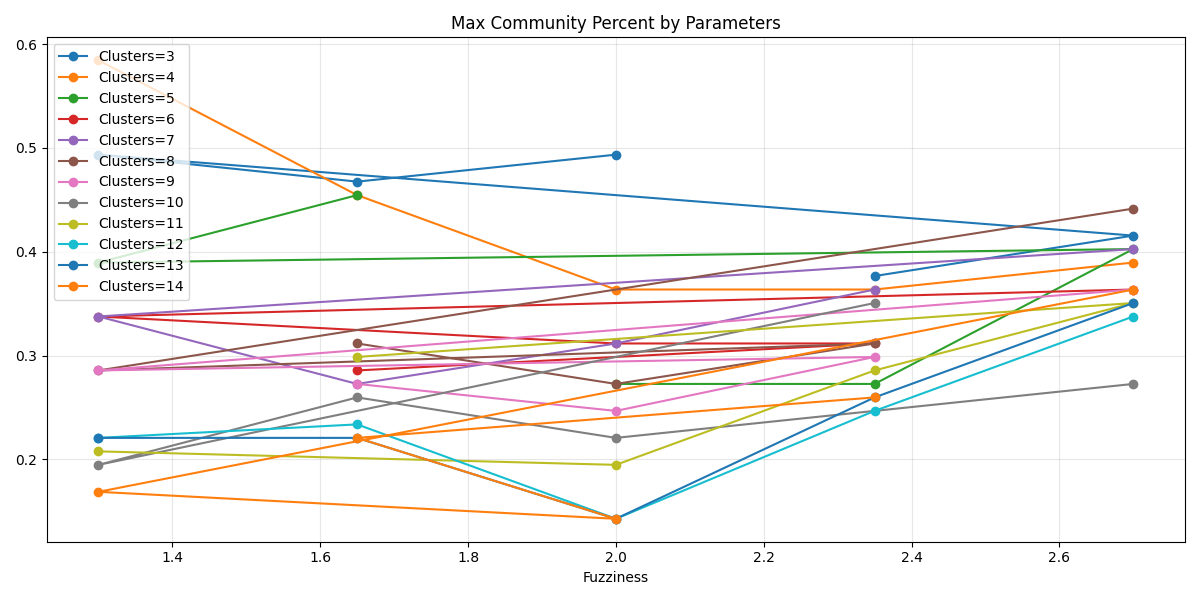
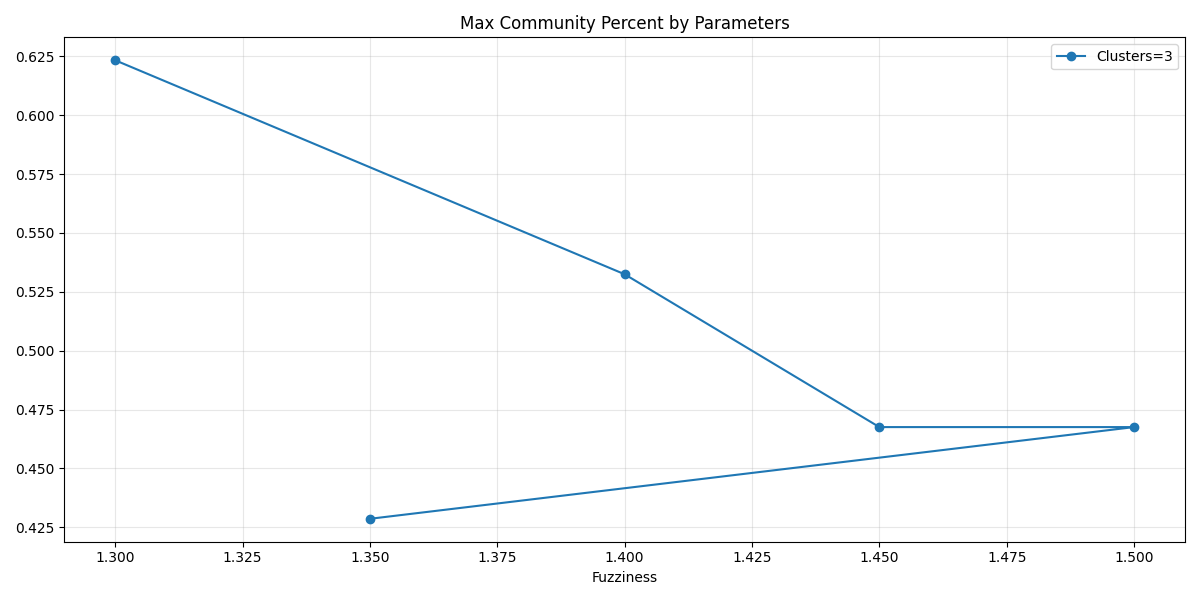
cleand up before push

diff --git a/fuzzy_check.py b/fuzzy_check.py
@@ -576,8 +576,8 @@ def main():
     analyzer = ParameterSweepAnalysis()
     
     # Define parameter grid
-    cluster_range = range(3, 15)  # 3 to 14 clusters
-    fuzziness_range = (1.3, 2.7)  # Range of fuzziness values
+    cluster_range = range(3, 4)  # 3 to 14 clusters
+    fuzziness_range = (1.3, 1.5)  # Range of fuzziness values
     param_grid = analyzer.generate_parameter_grid(cluster_range, fuzziness_range)
     
     # Run parameter sweep
